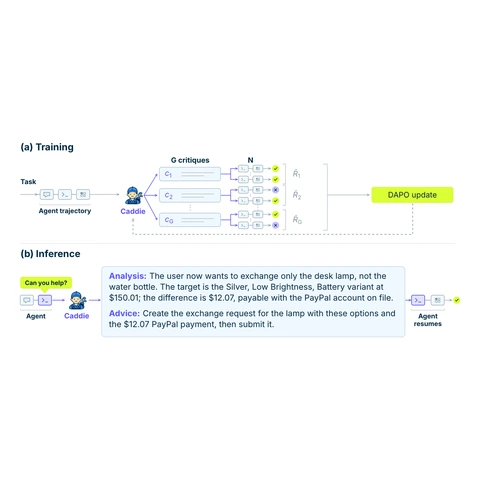
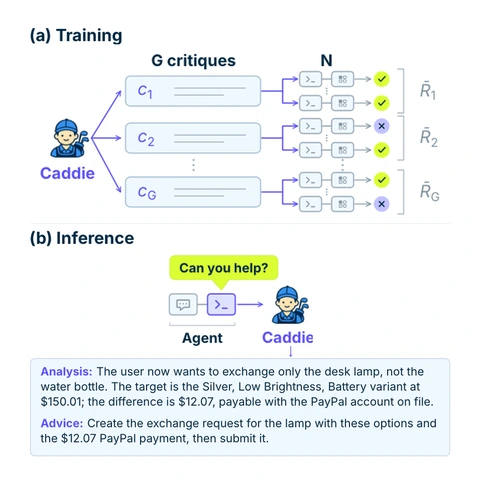
Rearrange three paper figures into compact thumbnails

diff --git a/_pages/about.html b/_pages/about.html
@@ -101,7 +101,7 @@ function toggleBibtex(trigger) {
     </div>
   </div>
   <div class="pub-entry" id="caddie">
-    {% include publication-thumbnail.html paper="caddie" version=5 alt="Figure 1 shows how Caddie is trained on agent critiques and advises an agent during inference" %}
+    {% include publication-thumbnail.html paper="caddie" version=6 alt="Training and inference excerpts from Caddie Figure 1, including critique generation and example advice" %}
     <div class="pub-content">
       <strong class="pub-title">Training Advisors for LLM Agents from Task Outcomes</strong>
       <span class="pub-authors">Sergei Polezhaev, Barys Liskavets, <strong class="pub-author-self">Ori Press</strong>, Alexander Golubev</span>
@@ -122,7 +122,7 @@ function toggleBibtex(trigger) {
     </div>
   </div>
   <div class="pub-entry">
-    {% include publication-thumbnail.html paper="algotune" version=5 alt="Figure 1 shows task selection, code optimization, and runtime comparisons against reference implementations" %}
+    {% include publication-thumbnail.html paper="algotune" version=6 alt="Figure 1 shows task selection, code optimization, and runtime comparisons against reference implementations" %}
     <div class="pub-content">
       <strong class="pub-title">AlgoTune: Can Language Models Speed Up General-Purpose Numerical Programs?</strong>
       <span class="pub-authors"><strong class="pub-author-self">Ori Press</strong>, Brandon Amos, Haoyu Zhao, Yikai Wu, Samuel Ainsworth, Dominik Krupke, Patrick Kidger, Touqir Sajed, Bartolomeo Stellato, Jisun Park, Nathanael Bosch, Eli Meril, Albert Steppi, Arman Zharmagambetov, Fangzhao Zhang, David Pérez–Piñeiro, Alberto Mercurio, Ni Zhan, Talor Abramovich, Kilian Lieret, Hanlin Zhang, Shirley Huang, Matthias Bethge, Ofir Press</span>
@@ -187,7 +187,7 @@ function toggleBibtex(trigger) {
     </div>
   </div>
   <div class="pub-entry">
-    {% include publication-thumbnail.html paper="citeme" version=5 alt="Figure 1 shows a model identifying the missing citation for a scientific claim" %}
+    {% include publication-thumbnail.html paper="citeme" version=6 alt="Figure 1 shows a model identifying the missing citation for a scientific claim" %}
     <div class="pub-content">
       <strong class="pub-title">CiteME: Can Language Models Accurately Cite Scientific Claims?</strong>
       <span class="pub-authors"><strong class="pub-author-self">Ori Press</strong>*, Andreas Hochlehnert*, Ameya Prabhu, Vishaal Udandarao, Ofir Press‡, Matthias Bethge‡ (*/‡ shared first/last authorship)</span>
